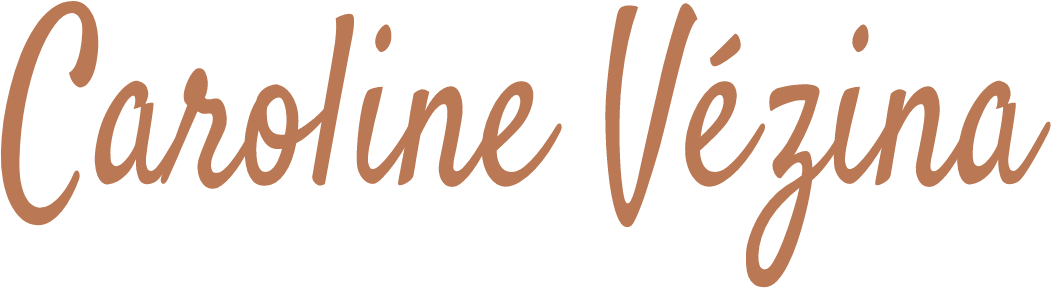
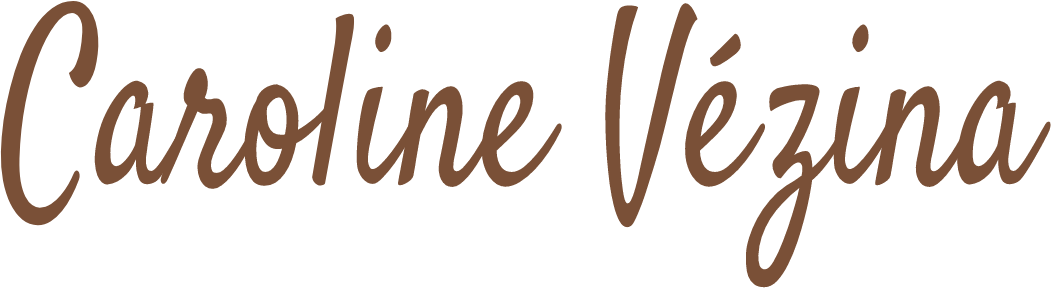
fixed-top

Changed region(s): [[0.0, 0.0, 0.5475, 0.7812], [0.5779, 0.0, 1.0, 1.0], [0.7909, 0.0938, 0.8517, 0.1875]]

diff --git a/style.css b/style.css
@@ -2,6 +2,7 @@ body, html {
   font-size: 1vw;
   font-family: 'Segoe UI', Tahoma, Geneva, Verdana, sans-serif;
   height: 100%;
+  padding-top: 12%;
 }
 
 header {
@@ -74,7 +75,7 @@ ul {
   width: 40%;
 }
 .presentation p {
-  color: #BA7954;
+  color: #7A5037;
 }
 .signature {
   width: 15%;

diff --git a/cv.html b/cv.html
@@ -9,7 +9,7 @@
     <title>Caroline Vézina - présentation</title>
   </head>
   <body>
-    <header class="navbar sticky-top">
+    <header class="navbar fixed-top">
       <nav class="container-fluid">
           
         <a class="navbar-brand" href="index.html" >

diff --git a/projets.html b/projets.html
@@ -9,7 +9,7 @@
     <title>Caroline Vézina - présentation</title>
   </head>
   <body>
-    <header class="navbar sticky-top">
+    <header class="navbar fixed-top">
       <nav class="container-fluid">
           
         <a class="navbar-brand" href="index.html" >

diff --git a/index.html b/index.html
@@ -9,7 +9,7 @@
   <title>Caroline Vézina - présentation</title>
 </head>
 <body>
-  <header class="navbar sticky-top">
+  <header class="navbar fixed-top">
     <nav class="container-fluid">
         
       <a class="navbar-brand" href="index.html" >
